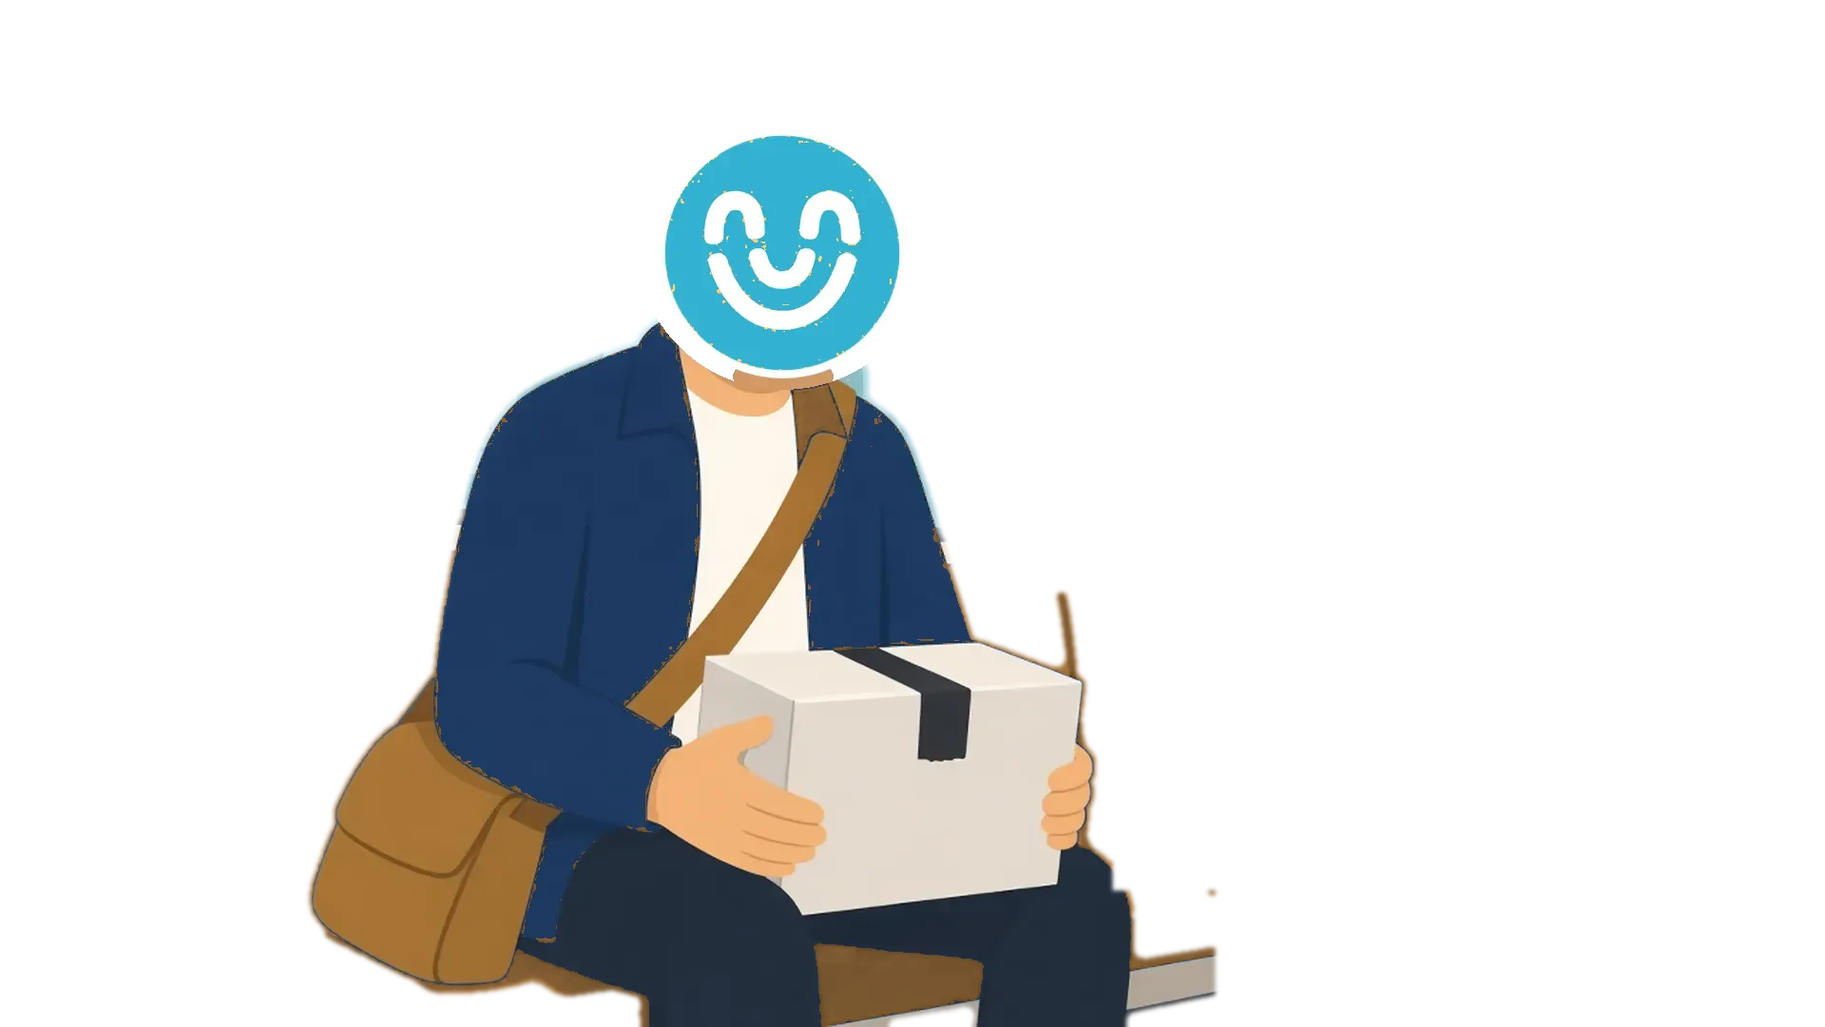
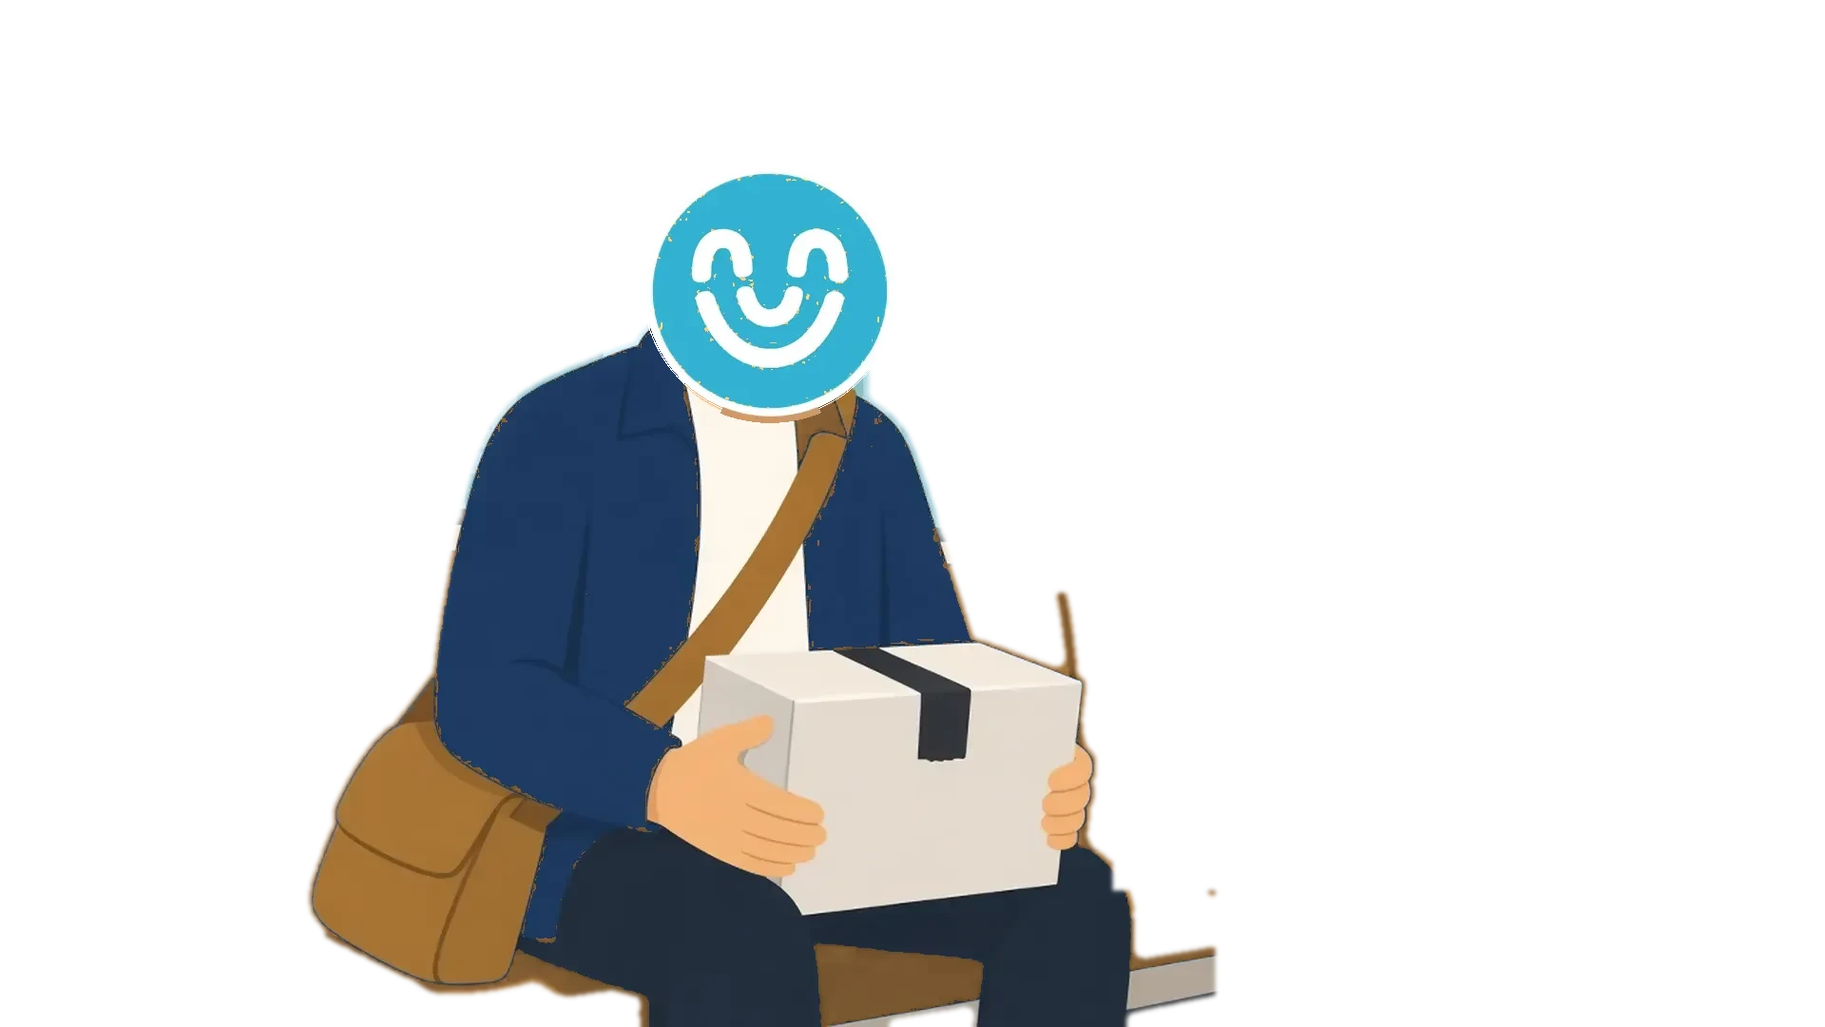
Toko Move v3.19: the ride, inside, and the neck
Deploys main c5106eaed (toko-move/ only, plus its catalogue note and
version row). Site gates 7/7.

Claude-Session: https://claude.ai/code/session_01RChotXKfvWe8T4TEqhykSN

Changed region(s): [[0.3438, 0.1222, 0.5, 0.4278]]

diff --git a/toko-move/js/play.js b/toko-move/js/play.js
@@ -26,7 +26,7 @@
 // none of them is a timer the game waits on to be fair: the state has already
 // moved when it starts.
 import { tr } from './lang.js?v=16';
-import * as J from './journey.js?v=7';
+import * as J from './journey.js?v=8';
 import * as Runs from './runs.js?v=5';
 import { HopBoard } from './hopboard.js?v=4';
 import { loadGround } from './ground.js?v=12';
@@ -46,7 +46,7 @@ import { MOMENTS, faceIn, keepIn, pickupMoment, deliveryMoment, boardMoment, wal
 import { resolveMode, dailyShare, errandShare, errandStore, errandOf, W } from './modes.js?v=6';
 import { recordDaily, todayRecord, streak, dateKey } from './daily.js?v=2';
 
-export const BUILD_VERSION = '3.18';
+export const BUILD_VERSION = '3.19';
 const $ = id => document.getElementById(id);
 const params = new URLSearchParams(location.search);
 // a run of the ladder, today's daily, or a day of the week (modes.js, ACT1.md §12)
@@ -216,7 +216,7 @@ const CSS = `
 @media (prefers-reduced-motion:reduce){.evVery{animation:none}}
 .v3sign{display:flex;align-items:center;gap:10px;padding:12px 16px;border-radius:14px;background:#101418;color:#ffb648;font:700 15px/1.2 ui-monospace,'SF Mono',Menlo,Consolas,monospace;letter-spacing:1px;box-shadow:0 0 0 2px #2a2f34,0 4px 14px rgba(0,0,0,.35);animation:v3stamp .22s ease-out both;flex-wrap:wrap}
 .v3sign .lb{display:inline-grid;place-items:center;min-width:34px;height:26px;padding:0 6px;border-radius:6px;color:#fff;font-weight:900}
-.v3sign .nx{color:#fff}.v3sign .model{flex-basis:100%;font-size:11px;color:#8a949b;letter-spacing:2px}
+.v3sign .nx{color:#fff}.v3sign .then{flex-basis:100%;font-size:11px;color:#ffb648;opacity:.75;letter-spacing:1.5px}.v3sign .model{flex-basis:100%;font-size:11px;color:#8a949b;letter-spacing:2px}
 .v3stamp{display:flex;flex-direction:column;align-items:center;gap:5px;padding:16px;border-radius:18px;background:#fffdf7;border:3px solid #233d4d;box-shadow:0 6px 20px rgba(21,38,43,.25);text-align:center;animation:v3bump .42s cubic-bezier(.2,.9,.3,1.35) both}
 @keyframes v3bump{0%{opacity:0;transform:translateY(24px) scale(.92) rotate(-1.5deg)}100%{opacity:1;transform:none}}
 .v3stamp .big{font-size:21px;font-weight:900;letter-spacing:3px;color:#233d4d}
@@ -690,12 +690,41 @@ addEventListener('keydown', e => { if (skip && !stage.hidden && (e.key === ' ' |
 
 // The in-car display: the line, where it is going, the next stop — and, on a
 // tram, which tram (look only).
-function sign(hop) {
+function sign(hop, next = null) {
   const layer = board.transit.layers.find(l => l.id === hop.line?.sourceId), ink = layer?.colour || '#52676d';
   const where = J.terminus(net, hop);
   const end = where && where !== net.name(hop.to) ? `<span>${esc(String(where).toUpperCase())}</span><span aria-hidden="true">›</span>` : '<span aria-hidden="true">›</span>';
   const model = hop.model && hop.model !== 'metro' ? `<span class="model">${esc(modelName(hop.model).toUpperCase())}</span>` : '';
-  panel.innerHTML = `<div class="v3sign" role="status"><span class="lb" style="background:${ink}">${esc(hop.line.mode === 'metro' ? 'M' : (hop.line.family || hop.line.label))}</span>${end}<span class="nx">${esc(net.name(hop.to).toUpperCase())}</span>${model}</div>`;
+  const nx = next && next !== hop.to ? `<span class="nx">${esc(net.name(next).toUpperCase())}</span><span class="then">then ${esc(net.name(hop.to).toUpperCase())}</span>` : `<span class="nx">${esc(net.name(hop.to).toUpperCase())}</span>`;
+  panel.innerHTML = `<div class="v3sign" role="status"><span class="lb" style="background:${ink}">${esc(hop.line.mode === 'metro' ? 'M' : (hop.line.family || hop.line.label))}</span>${end}${nx}${model}</div>`;
+}
+
+// THE RIDE, INSIDE (v3.19; owner: "The traveling on a tram visual is a great one and should be
+// used more … the background looks great moving … a longer loop of travel"). A ride stays in
+// the car for its whole length: the window carries the travel and slows at each stop the line
+// passes, the sign names the next one, and the corner map follows the courier along the line.
+// A tap hurries it, as a hop on the board always could.
+function rideInside(hop, t0 = 0, t1 = 1) {
+  game.boards++; game.rides = (game.rides || 0) + 1; sfx('ride');
+  return new Promise(done => {
+    const line = hop.line, step = line.k > line.i ? 1 : -1, stops = [];
+    for (let k = line.i + step; k !== line.k + step; k += step) stops.push(line.nodes[k]);
+    const dur = CALM ? 400 : (2600 + 2600 * Math.min(1, hop.price / 900)) * (t1 - t0), start = performance.now();
+    const tile = frameEl.querySelector('.L.tile, .L.drift'), anim = tile?.getAnimations?.()[0];
+    const btn = $('v3mini'); btn.hidden = false; mini.resize();
+    const dest = dropOf(S.job), col = S.job ? colourOf(S.job.cargo) : undefined;
+    let over = false, shown = -1;
+    const end = () => { if (over) return; over = true; skip = null; if (anim) anim.playbackRate = 1; btn.hidden = true; done(); };
+    skip = end;
+    const tick = now => { if (over) return; const k = Math.min(1, (now - start) / dur), t = t0 + (t1 - t0) * k;
+      // the stop the car is nearest: slow towards it, and the sign names the next one
+      const at = Math.min(stops.length - 1, Math.floor(t * stops.length)), frac = t * stops.length - at;
+      if (anim) anim.playbackRate = stops.length > 1 && at < stops.length - 1 ? 0.35 + 0.65 * Math.min(1, Math.abs(frac - 1) * 4, frac * 4) : 1 - 0.7 * Math.max(0, (t - 0.85) / 0.15);
+      if (at !== shown) { shown = at; sign(hop, stops[at]); }
+      mini.draw({ at: S.at, hop, t, dest, destColour: col, labels: false, lift: false, halted: haltedLayer });
+      if (k >= 1) end(); else requestAnimationFrame(tick); };
+    requestAnimationFrame(tick);
+  });
 }
 
 // A moment of the job (v3.12): its picture, its line, a beat; skippable.
@@ -748,9 +777,8 @@ async function pick(i) {
       if (r.hop.kind === 'ride') { hideBoard(); paintScene(interior(r.hop), { car: carOf(r.hop), crowd: crowdOf(r.hop) }); sign(r.hop); }
       if (r.unsealed) { await beat(900); await reveal({ say: `Aboard the ${r.unsealed.family}, the label makes sense: ${r.unsealed.stop}.`, chips: [], how: 'win' }); }
       if (r.story) { pendingHop = r.hop; busy = false; return render(); }
-      if (r.hop.kind === 'ride') await beat(1200);
-      panel.innerHTML = '';
-      await rideBoard(r.hop);
+      if (r.hop.kind === 'ride') await rideInside(r.hop);         // v3.19: the ride stays in the car
+      else { panel.innerHTML = ''; await rideBoard(r.hop); }
       if (r.reveal) await reveal(r.reveal);                   // the weather's stakes on a walk land on the way
       if (tram) arrived = { model: r.hop.model, family: r.hop.line.family };
     } else if (wasHop) {
@@ -758,7 +786,8 @@ async function pick(i) {
       pendingHop = null;
       if (r.reveal) await reveal(r.reveal);
       panel.innerHTML = '';
-      await rideBoard(wasHop, wasHop.kind === 'walk' ? 0.5 : 0, 1);
+      if (wasHop.kind === 'ride') { paintScene(interior(wasHop), { car: carOf(wasHop), crowd: crowdOf(wasHop) }); await rideInside(wasHop, 0.4, 1); }
+      else await rideBoard(wasHop, wasHop.kind === 'walk' ? 0.5 : 0, 1);
       if (wasHop.kind === 'ride' && wasHop.model && wasHop.model !== 'metro') arrived = { model: wasHop.model, family: wasHop.line.family };
     } else if (r.kind === 'perk' && r.cash) {
       await reveal({ say: 'You keep the cash.', chips: [`+€${r.cash}`], how: 'win' });

diff --git a/toko-move/index.html b/toko-move/index.html
@@ -50,4 +50,4 @@
 @media (max-width:899px){.evBtn{min-height:52px}}
 </style></head><body>
 <div id="hud"><span id="hudPill"><span id="clock"></span><span class="a" title="deliveries"><b id="done"></b></span><span id="cargoHud" class="ring" title="cargo"><i></i><b id="cargoGlyph">▪</b></span></span><span class="bg" title="bag"><span id="bagHud"></span></span><span class="e" title="time left on this job"><b id="emit"></b></span><span class="sc" title="score"><b id="score"></b></span><span class="mu" title="on-time streak"><b id="mult"></b></span><span class="nx">next <b id="reach"></b></span><span class="sp"><span id="rush" class="rush"></span><span id="lines"></span><button class="ctl" id="transit">MAP</button><button class="ctl" id="sound" aria-label="sound on" aria-pressed="true">♪</button><button class="ctl" id="pause">❚❚</button><button class="ctl" id="speed">×1</button></span></div><canvas id="map" aria-label="Helsinki HSL network with moving gameplay trams and metro"></canvas><div id="transitPanel" hidden><div class="tpHead"><b>EXACT HSL LAYERS</b><button class="ctl x" id="transitClose">✕</button></div><div class="tpMeta" id="transitMeta"></div><div class="tpActions"><button class="ctl" id="tramOnly">TRAMS</button><button class="ctl" id="metroOnly">METRO</button><button class="ctl" id="allTransit">ALL</button></div><div id="transitRows"></div></div><div id="zoomRail" hidden><button class="ctl z" data-scale="stop">STOP</button><button class="ctl z" data-scale="route">ROUTE</button><button class="ctl z" data-scale="city">CITY</button><button class="ctl z" id="recentre" title="back to the courier" hidden>&#9678;</button></div><div id="pop" hidden><button class="ctl x" id="popClose">✕</button><div id="popBody"></div></div><div id="feed"></div><div id="sheet"></div>
-<div class="veil" id="title"><div class="card"><h1>TOKO MOVE</h1><div class="versionHero"><small>PLAYABLE BUILD</small>v3.18</div><p class="hint" id="titleWhen">Helsinki · 07:00 · five minutes</p><div class="cardBody"><p>A courier on the real Helsinki trams. Take a job, catch what is coming, get off where it says.</p><p class="hint" id="titleGoal">Three deliveries before 08:15. Drops on the way are extra.</p><div id="dayCard"></div><p class="hint credits" id="credits">Transit data: Helsinki Regional Transport Authority (HSL), CC BY 4.0 · Map: © OpenStreetMap contributors, ODbL 1.0 · Districts: City of Helsinki · Toko Midori Games</p></div><p class="hint" id="shiftNo"></p><div id="mutRow"></div><button class="btn prime wide" id="play">START SHIFT</button><a class="btn ghost wide" id="dailyLink" href="?daily" hidden>OR TODAY'S DAILY · the same shift for everyone</a><a class="btn ghost wide" id="weekLink" href="?week" hidden></a><a class="btn ghost wide" id="liveLink" href="?live" hidden>OR LIVE · the real trams, right now</a><div id="testCard" hidden></div></div></div><div class="veil" id="paused" hidden><div class="card"><h2>PAUSED</h2><p class="hint">The shift waits while the game is in the background.</p><button class="btn prime wide" id="resume">RESUME</button></div></div><div class="veil" id="upgrade" hidden><div class="card"><h2>TRANSPORT BOARD</h2><p id="upText"></p><div id="upBtns"></div></div></div><div class="veil" id="end" hidden><div class="card"><h1 id="endTitle"></h1><div id="endStats"></div><p class="hint" id="endNote"></p><button class="btn prime wide" id="again">RUN THE DAY AGAIN</button></div></div><script type="module" src="js/boot.js?v=18"></script><script type="module" src="../hub/shell.js?v=220"></script></body></html>
+<div class="veil" id="title"><div class="card"><h1>TOKO MOVE</h1><div class="versionHero"><small>PLAYABLE BUILD</small>v3.19</div><p class="hint" id="titleWhen">Helsinki · 07:00 · five minutes</p><div class="cardBody"><p>A courier on the real Helsinki trams. Take a job, catch what is coming, get off where it says.</p><p class="hint" id="titleGoal">Three deliveries before 08:15. Drops on the way are extra.</p><div id="dayCard"></div><p class="hint credits" id="credits">Transit data: Helsinki Regional Transport Authority (HSL), CC BY 4.0 · Map: © OpenStreetMap contributors, ODbL 1.0 · Districts: City of Helsinki · Toko Midori Games</p></div><p class="hint" id="shiftNo"></p><div id="mutRow"></div><button class="btn prime wide" id="play">START SHIFT</button><a class="btn ghost wide" id="dailyLink" href="?daily" hidden>OR TODAY'S DAILY · the same shift for everyone</a><a class="btn ghost wide" id="weekLink" href="?week" hidden></a><a class="btn ghost wide" id="liveLink" href="?live" hidden>OR LIVE · the real trams, right now</a><div id="testCard" hidden></div></div></div><div class="veil" id="paused" hidden><div class="card"><h2>PAUSED</h2><p class="hint">The shift waits while the game is in the background.</p><button class="btn prime wide" id="resume">RESUME</button></div></div><div class="veil" id="upgrade" hidden><div class="card"><h2>TRANSPORT BOARD</h2><p id="upText"></p><div id="upBtns"></div></div></div><div class="veil" id="end" hidden><div class="card"><h1 id="endTitle"></h1><div id="endStats"></div><p class="hint" id="endNote"></p><button class="btn prime wide" id="again">RUN THE DAY AGAIN</button></div></div><script type="module" src="js/boot.js?v=19"></script><script type="module" src="../hub/shell.js?v=220"></script></body></html>

diff --git a/hub/games.js b/hub/games.js
@@ -108,17 +108,17 @@ export const GAMES = [
       tagline: 'Lähetin vuoro Helsingissä kortti kerrallaan: mikä ratikka, mihin suuntaan, ketä autat. Kello liikkuu vain, kun valitset.',
       lineage: '80 Days × Mini Metro × oikea Helsinki',
       controls: 'napauta korttia · valitse ratikka tai kävely · avaa kartta kulmasta',
-      note: 'UUTTA v3.18: kolme vaihtoehtoa joka valinnassa, joista kolmas on joskus erikoinen tai erittäin erikoinen (taksi, tavarapyöräkyyti, pikakeikka), ja valikot samalla kortilla. v3.17: tehtävät kartalla, ja päivän asia, sama kaikille.',
+      note: 'UUTTA v3.19: ratikkamatka kulkee nyt kokonaan vaunussa, ikkuna liikkuu ja pysähtyy pysäkeillä, ja Tokon pää istuu taas kaulalla. v3.18: kolme vaihtoehtoa joka valinnassa, joista kolmas on joskus erikoinen tai erittäin erikoinen (taksi, tavarapyöräkyyti, pikakeikka), ja valikot samalla kortilla.',
     },
     ja: {
       tagline: 'ヘルシンキの配達シフトを一枚ずつ。どのトラム、どの道、誰を助けるか。時計は選んだときだけ進む。',
       lineage: '80 Days × Mini Metro × 実在のヘルシンキ',
       controls: 'カードをタップ · トラムか徒歩を選ぶ · 角の地図を開く',
-      note: 'v3.18の新着：すべての選択に3つの選択肢、3つ目は時々スペシャル（タクシー、カーゴバイク、急ぎ便）。メニューも同じカードに。v3.17：ミッションが地図に、そして毎日の用事（全員同じ）。',
+      note: 'v3.19の新着：トラムの移動は車内で最後まで、窓の景色が動き停留所で止まる。トコの頭も首の上に。v3.18：すべての選択に3つの選択肢、3つ目は時々スペシャル（タクシー、カーゴバイク、急ぎ便）。メニューも同じカードに。',
     },
     status: 'active',
     live: true,
-    note: 'NEW in v3.18: three options at every choice, the third sometimes special or very special (a taxi, a cargo bike lift, an express job), and the menus on the same card. v3.17: the missions on the map, and today\'s errand, the same for everyone.',
+    note: 'NEW in v3.19: a tram ride stays inside the car, the window slowing at each stop and the corner map following you, and Toko\'s head sits on the neck again. v3.18: three options at every choice, the third sometimes special or very special (a taxi, a cargo bike lift, an express job), and the menus on the same card.',
     title: 'Toko Move',
     tagline: 'A courier\'s shift in Helsinki, one card at a time: which tram, which way, who to help. The clock only moves when you choose.',
     lineage: '80 Days × Mini Metro × real Helsinki',

diff --git a/toko-move/js/journey.js b/toko-move/js/journey.js
@@ -113,10 +113,12 @@ const pickOf = (s, list) => list[Math.floor(rand(s) * list.length)];
 // The deck a run deals (ACT1.md §5): one card a job, from the run's own tones,
 // places and weather — a card that needs a weather the shift has not got is
 // not in it, and one that has it is twice as likely; one buyer a shift.
+// (v3.19) a card aboard is played in the car, the view the owner wants more of: half again as likely
+export const ABOARD = 1.5;
 export function dealDeck(s, run, weather) {
   const tones = run.tones || { fun: 1 }, places = run.places || null;
   const weight = c => (c.weather && !c.weather.includes(weather)) || (places && !places.includes(c.where) && c.where !== 'any') ? 0
-    : Math.max(...c.tone.map(t => tones[t] || 0)) * (c.weather ? 2 : 1);
+    : Math.max(...c.tone.map(t => tones[t] || 0)) * (c.weather ? 2 : 1) * (c.where === 'aboard' ? ABOARD : 1);
   const out = [];
   for (let i = 0; i < (run.cards ?? 3); i++) {
     const pool = CARDS.filter(c => !out.some(d => d.card.id === c.id) && !(c.sale && out.some(d => d.card.sale)) && weight(c) > 0);

diff --git a/toko-move/js/main-v212.js b/toko-move/js/main-v212.js
@@ -1,7 +1,7 @@
 // Toko Move v2.12.2 runtime — clean HSL core + transfer hubs + walking/interception + two-job carry.
 // first, so every word the modules below draw passes through it (v2.66)
 import {tr} from './lang.js?v=16';
-import './core-v212.js?v=92';
+import './core-v212.js?v=93';
 import './route-choice.js?v=28';
 import {LiveNetwork,HEADWAY_MIN,MODE_KMH} from './live-network.js?v=17';
 import {hidden as fogHides} from './weather.js?v=1';
@@ -33,7 +33,7 @@ import {mountAudio} from './audio.js?v=2';
 import {mountTestCard} from './testcard.js?v=3';
 import {mountRecovery} from './recovery-v212.js?v=3';
 import {about,inMinutes} from './ui.js?v=2';
-const BUILD_VERSION='3.18';
+const BUILD_VERSION='3.19';
 function mount(){const tm=window.__tm;if(!tm?.transit||!tm?.flow||!tm?.city){setTimeout(mount,50);return;}tm.version=BUILD_VERSION;// THE DAY IS DRAWN BEFORE THE FLEET, because one of the four is a timetable:
 // QUIET SUNDAY provisions fewer trams, and a fleet cannot be re-provisioned
 // after its vehicles exist without every phase in it moving under the player.

diff --git a/toko-move/js/core-v212.js b/toko-move/js/core-v212.js
@@ -30,7 +30,7 @@ import * as Rush from './rush.js?v=1';
 import {colourOf,parcelHtml,bagHtml} from './parcels.js?v=1';
 
 const $=id=>document.getElementById(id);
-const BUILD_VERSION='3.18';
+const BUILD_VERSION='3.19';
 const MAP_THEME={...THEME,latent:THEME.paper,hideQueues:true,hideLoadMarks:true,hideCarriers:true,modeColours:{metro:'rgba(0,0,0,0)',tram:'rgba(0,0,0,0)',car:'rgba(0,0,0,0)'}};
 const cargoColour=colourOf;   // ONE palette: this file and the job board drew the same parcel in two different colours until v2.43
 const esc=s=>String(s??'').replace(/[&<>\"]/g,ch=>({'&':'&amp;','<':'&lt;','>':'&gt;','\"':'&quot;'}[ch]||ch));

diff --git a/toko-move/js/boot.js b/toko-move/js/boot.js
@@ -12,5 +12,5 @@ const p = new URLSearchParams(location.search);
 // them carry it, so a classic week stays a classic week.
 const CLASSIC = ['classic', 'shift', 'day', 'weather', 'rush', 'kit', 'live', 'skin', 'mutator'].some(k => p.has(k));
 if (CLASSIC) for (const id of ['dailyLink', 'weekLink']) { const a = document.getElementById(id); if (a) a.setAttribute('href', `${a.getAttribute('href')}&classic`); }
-if (CLASSIC) import('./main-v212.js?v=94');
-else import('./play.js?v=18');
+if (CLASSIC) import('./main-v212.js?v=95');
+else import('./play.js?v=19');

diff --git a/sw.js b/sw.js
@@ -19,7 +19,7 @@
 // caching their files from out here would be two answers to the same question.
 // A narrower scope wins the page, so those keep controlling themselves.
 
-const VERSION = 'v267';
+const VERSION = 'v268';
 const CACHE = `suds-hub-${VERSION}`;
 
 const SHELL = [

diff --git a/toko-move/VERSIONS.md b/toko-move/VERSIONS.md
@@ -1,5 +1,44 @@
 # Toko Move — versions
 
+## v3.19 — 2026-11-08
+
+**THE RIDE, INSIDE, AND THE NECK** — the owner, on v3.17: *"The traveling on a
+tram visual is a great one and should be used more. The neck is a bit
+disconnected but the background looks great moving. Similar ones should for a
+longer loop of travel, animations and choices."*
+
+- **A ride stays in the car.** It used to show the interior for a beat, then
+  cut to the board. Now the whole ride plays inside, for 2.6 to 5.2 seconds by
+  how long it is:
+  - the window carries the travel and slows at each stop the line passes;
+  - the sign names the next stop (*"then RUOHOLAHTI"* under it);
+  - the corner map follows the courier along the line.
+
+  A tap hurries it, as before. After a card aboard, the rest of the ride is
+  played in the car too. Walks and lifts still go on the board.
+- **More choices aboard.** Cards that happen aboard are dealt half again as
+  often, so more of them are played in the car. Bands, reader · tapper:
+
+  | run | reader | tapper |
+  |---|---|---|
+  | EASY | 60/60 | 60/60 |
+  | MEDIUM | 56 | 50 |
+  | HARD | 54 | 44 |
+  | NIGHT | 51 | 25 |
+
+  The ladder holds.
+- **The neck.** Toko's head sat high on the courier in the tram and metro
+  interiors, with about 40 px of neck between the ring and the collar. It is
+  moved down onto the collar and centred over the neck, in all 12 layers
+  (tram and metro, both formats, every crowd and old-car variant).
+  - `art/minimal-metro-look/fix_neck.py` does it from the originals, kept in
+    `_prev/neck/`, so running it again gives the same files.
+  - The art request (PR #633) asks for the courier redrawn at the source,
+    which replaces this.
+- **Gates.** `test/play.cjs`: a ride is played inside the car with the corner
+  map; new seeds where the decks moved (the crush in the metro, MEDIUM 1162;
+  the tourist, the crossing and the saved seat, EASY 1152).
+
 ## v3.18 — 2026-11-08
 
 **THREE AT EVERY CHOICE, AND THE MENUS WEAR THE CARD** — the owner, on

diff --git a/toko-move/ROADMAP.md b/toko-move/ROADMAP.md
@@ -93,7 +93,7 @@ sometimes be special or very special. This same lower third look, should be used
 in menus and the intro screen."*
 
 11. ~~**v3.18 · Three at every choice, and the menus wear the card.**~~ Shipped.
-12. **v3.19 · The ride, longer.** The tram interior as the stage for a longer
+12. ~~**v3.19 · The ride, longer.**~~ Shipped: the ride stays in the car, the neck mended; the art for more (window views, poses, passengers) is asked for in PR #633. The tram interior as the stage for a longer
     stretch of travel: the ride held, more aboard (cards, the people moving),
     choices made riding; and the courier's neck mended (Toko's head sits left
     of the neck in the interior layers).
